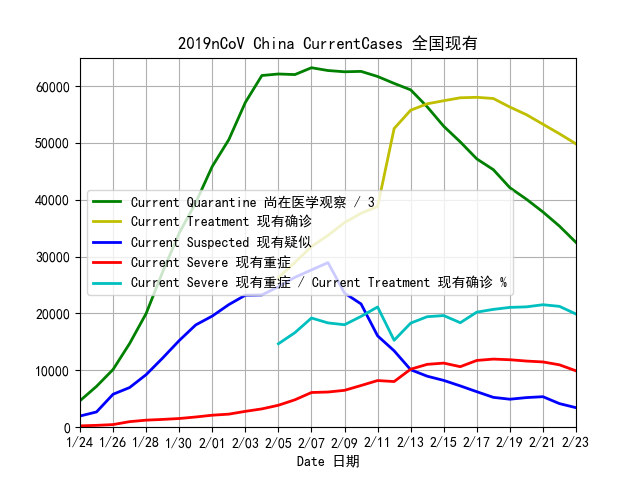
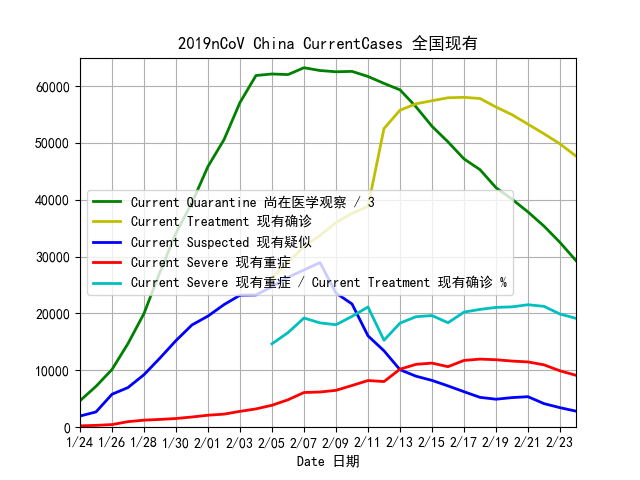
updated for Feb 24 data

diff --git a/plotCharts.py b/plotCharts.py
@@ -10,67 +10,112 @@ mpl.rcParams['axes.unicode_minus']=False # in case minus sign is shown as box
 
 dfData = pd.read_csv('data.csv')
 dfChina = dfData[dfData['Region']=='China']
+dfChina0205 = dfChina[dfChina['Date']>='2/05']
 dfHB    = dfData[dfData['Region']=='HB']
 dfChinaHB = dfChina.merge(dfHB, on=['Date'], how='inner')
 dfChinaHBx = dfChinaHB[dfChinaHB['Date']>='2/01']
+dfChinaHB0212 = dfChinaHB[dfChinaHB['Date']>='2/12']
+dfBeijing = dfData[dfData['Region']=='Beijing']
+dfFT = dfData[dfData['Region']=='FT']
 
 nChina = len(dfChina)
 
 #Confirmed
 plt.figure(1)
 confirmed, = plt.plot(dfChina['Date'], dfChina['Confirmed6'], '-', linewidth=2)
-currentSevere, = plt.plot(dfChina['Date'], dfChina['CurrentSevere7'], '-', linewidth=2)
-p, = plt.plot(dfChina['Date'], 10000*dfChina['CurrentSevere7']/dfChina['Confirmed6'], '-', linewidth=2)
+currentTreatment, = plt.plot(dfChina0205['Date'], dfChina0205['CurrentTreatment15'], '-', linewidth=2, c='y')
+currentSevere, = plt.plot(dfChina['Date'], dfChina['CurrentSevere7'], '-', linewidth=2, c='r')
+psc, = plt.plot(dfChina['Date'], 100000*dfChina['CurrentSevere7']/dfChina['Confirmed6'], '-', linewidth=2)
+pst, = plt.plot(dfChina0205['Date'], 100000*dfChina0205['CurrentSevere7']/dfChina0205['CurrentTreatment15'], '-', linewidth=2)
 plt.axis((dfChina['Date'][0], dfChina['Date'][nChina-1], 0, dfChina['Confirmed6'][nChina-1]+1000))
-plt.xticks(dfChina['Date'], dfChina['Date'])
+plt.xticks(dfChina['Date'][::2], dfChina['Date'][::2])
 plt.xlabel('Date 日期')
 plt.title('2019nCoV China Confirmed/CurrentSevere 全国 确诊/现有重症')
 plt.grid(True)
-plt.legend([confirmed, currentSevere, p], [u'Confirmed 确诊', u'Current Severe 现有重症', u"Current Severe 现有重症/Confirmed 确诊 %"])
+plt.legend([confirmed, currentTreatment, currentSevere, psc, pst], 
+           [u'Confirmed 确诊', u'Current Treatment 现有确诊', u'Current Severe 现有重症', u"Current Severe 现有重症/Confirmed 确诊 %", u"Current Severe 现有重症/Current Treatment 现有确诊 %"])
 plt.savefig('CurrentSevere.png')
 
 #Suspected
 plt.figure(2)
-currentQuarantine, = plt.plot(dfChina['Date'], dfChina['CurrentQuarantine14'], '-', linewidth=2, c='g')
+currentQuarantine, = plt.plot(dfChina['Date'], dfChina['CurrentQuarantine14']//6, '-', linewidth=2, c='g')
 currentSuspected, = plt.plot(dfChina['Date'], dfChina['CurrentSuspected11'], '-', linewidth=2, c='m')
 newSuspected, = plt.plot(dfChina['Date'], dfChina['NewSuspected5'], '-', linewidth=2, c='r')
-plt.axis((dfChina['Date'][0], dfChina['Date'][nChina-1], 0, dfChina['CurrentQuarantine14'][nChina-1]+5000))
-plt.xticks(dfChina['Date'], dfChina['Date'])
+plt.axis((dfChina['Date'][0], dfChina['Date'][nChina-1], 0, 33000))
+plt.xticks(dfChina['Date'][::2], dfChina['Date'][::2])
 plt.xlabel('Date 日期')
-plt.title('2019nCoV China Suspected 全国 疑似')
+plt.title('2019nCoV China Suspected 全国疑似')
 plt.grid(True)
-plt.legend([currentQuarantine, currentSuspected, newSuspected], [u'Current Quarantine 正在接受医学观察', u'Current Suspected 现有疑似', u'New Suspected 新增疑似'])
+plt.legend([currentQuarantine, currentSuspected, newSuspected], [u'Current Quarantine 正在接受医学观察 / 6', u'Current Suspected 现有疑似', u'New Suspected 新增疑似'])
 plt.savefig('Suspected.png')
 
 #NewCases
 plt.figure(3)
-newConfirmed, = plt.plot(dfChina['Date'], dfChina['NewConfirmed1'], '-', linewidth=2, c='y')
+newWeakConfirmed, = plt.plot(dfChina['Date'], dfChina['NewWeakConfirmed16']/2, '--', linewidth=2, c='y')
+newConfirmed, = plt.plot(dfChina['Date'], dfChina['NewConfirmed1']-dfChina['NewWeakConfirmed16'], '-', linewidth=2, c='y')
 newSevere, = plt.plot(dfChina['Date'], dfChina['NewSevere2'], '-', linewidth=2, c='r')
 newDeaths, = plt.plot(dfChina['Date'], dfChina['NewDeaths3'], '-', linewidth=2, c='black')
 newDischarged, = plt.plot(dfChina['Date'], dfChina['NewDischarged4'], '-', linewidth=2, c='g')
 newSuspected, = plt.plot(dfChina['Date'], dfChina['NewSuspected5'], '-', linewidth=2, c='b')
-plt.axis((dfChina['Date'][0], dfChina['Date'][nChina-1], 0, 5500))
-plt.xticks(dfChina['Date'], dfChina['Date'])
+plt.axis((dfChina['Date'][0], dfChina['Date'][nChina-1], -1100, 6700))
+plt.xticks(dfChina['Date'][::2], dfChina['Date'][::2])
 plt.xlabel('Date 日期')
-plt.title('2019nCoV China NewCases 全国 新增')
+plt.title('2019nCoV China NewCases 全国新增')
 plt.grid(True)
-plt.legend([newSuspected, newConfirmed, newSevere, newDischarged, newDeaths], [u'New Suspected 新增疑似', u'New Confirmed 新增确诊', u'New Severe 新增重症', u'New Discharged 新增治愈', u'New Deaths 新增死亡'])
+plt.legend([newWeakConfirmed, newSuspected, newConfirmed, newSevere, newDischarged, newDeaths], 
+           [u'New Weak Confirmed 新增临床诊断 / 2', u'New Suspected 新增疑似', u'New Confirmed 新增确诊', u'New Severe 新增重症', u'New Discharged 新增治愈', u'New Deaths 新增死亡'])
 plt.savefig('NewCases.png')
 
-#HB vs Rest
+#CurrentCases
 plt.figure(4)
-hbNewConfirmed, = plt.plot(dfChinaHB['Date'], dfChinaHB['NewConfirmed1_y'], '--', linewidth=2, c='b')
-restNewConfirmed, = plt.plot(dfChinaHB['Date'], dfChinaHB['NewConfirmed1_x']-dfChinaHB['NewConfirmed1_y'], '-', linewidth=2, c='b')
-hbNewSuspected, = plt.plot(dfChinaHBx['Date'], dfChinaHBx['NewSuspected5_y'], '--', linewidth=2, c='g')
-restNewSuspected, = plt.plot(dfChinaHBx['Date'], dfChinaHBx['NewSuspected5_x']-dfChinaHBx['NewSuspected5_y'], '-', linewidth=2, c='g')
+currentQuarantine, = plt.plot(dfChina['Date'], dfChina['CurrentQuarantine14']//3, '-', linewidth=2, c='g')
+currentSuspected, = plt.plot(dfChina['Date'], dfChina['CurrentSuspected11'], '-', linewidth=2, c='b')
+currentTreatment, = plt.plot(dfChina0205['Date'], dfChina0205['CurrentTreatment15'], '-', linewidth=2, c='y')
+currentSevere, = plt.plot(dfChina['Date'], dfChina['CurrentSevere7'], '-', linewidth=2, c='r')
+currentSevereRatio, = plt.plot(dfChina0205['Date'], 100000*dfChina0205['CurrentSevere7']//dfChina0205['CurrentTreatment15'], '-', linewidth=2, c='c')
+plt.axis((dfChina['Date'][0], dfChina['Date'][nChina-1], 0, 65000))
+plt.xticks(dfChina['Date'][::2], dfChina['Date'][::2])
+plt.xlabel('Date 日期')
+plt.title('2019nCoV China CurrentCases 全国现有')
+plt.grid(True)
+plt.legend([currentQuarantine, currentTreatment, currentSuspected, currentSevere, currentSevereRatio], 
+           [u'Current Quarantine 尚在医学观察 / 3', u'Current Treatment 现有确诊', u'Current Suspected 现有疑似', u'Current Severe 现有重症', u'Current Severe 现有重症 / Current Treatment 现有确诊 %'])
+plt.savefig('CurrentCases.png')
+
+#HB vs Rest
+plt.figure(5)
+hbNewConfirmed, = plt.plot(dfChinaHB['Date'], dfChinaHB['NewConfirmed1_y']-dfChinaHB['NewWeakConfirmed16_y'], '--', linewidth=2, c='y')
+restNewConfirmed, = plt.plot(dfChinaHB['Date'], dfChinaHB['NewConfirmed1_x']-dfChinaHB['NewConfirmed1_y'], '-', linewidth=2, c='y')
+hbNewSuspected, = plt.plot(dfChinaHBx['Date'], dfChinaHBx['NewSuspected5_y'], '--', linewidth=2, c='b')
+restNewSuspected, = plt.plot(dfChinaHBx['Date'], dfChinaHBx['NewSuspected5_x']-dfChinaHBx['NewSuspected5_y'], '-', linewidth=2, c='b')
 hbNewSevere, = plt.plot(dfChinaHBx['Date'], dfChinaHBx['NewSevere2_y'], '--', linewidth=2, c='r')
 restNewSevere, = plt.plot(dfChinaHBx['Date'], dfChinaHBx['NewSevere2_x']-dfChinaHBx['NewSevere2_y'], '-', linewidth=2, c='r')
-plt.axis(("2/01", dfChina['Date'][nChina-1], 0, 5100))
-plt.xticks(dfChinaHB['Date'], dfChinaHB['Date'])
+hbNewDischarged, = plt.plot(dfChinaHB['Date'], dfChinaHB['NewDischarged4_y'], '--', linewidth=2, c='g')
+restNewDischarged, = plt.plot(dfChinaHB['Date'], dfChinaHB['NewDischarged4_x']-dfChinaHB['NewDischarged4_y'], '-', linewidth=2, c='g')
+plt.axis(("2/01", dfChina['Date'][nChina-1], -1000, 5000))
+plt.xticks(dfChinaHB['Date'][::2], dfChinaHB['Date'][::2])
 plt.xlabel('Date 日期')
-plt.title('2019nCoV HuBei NewCases 湖北省新增确诊')
+plt.title('2019nCoV HuBei NewCases 湖北省新增')
 plt.grid(True)
-plt.legend([hbNewSuspected, restNewSuspected, hbNewConfirmed, restNewConfirmed, hbNewSevere, restNewSevere], [u'HuBei New Suspected 湖北省新增疑似', u'Rest New Suspected 其他各省新增疑似', u'HuBei New Confirmed 湖北省新增确诊', u'Rest New Confirmed 其他各省新增确诊', u'HuBei New Severe 湖北省新增重症', u'Rest New Severe 其他各省新增重症'])
+plt.legend([hbNewSuspected, restNewSuspected, hbNewConfirmed, restNewConfirmed, hbNewSevere, restNewSevere, hbNewDischarged, restNewDischarged], 
+           [u'HuBei New Suspected 湖北省新增疑似', u'Rest New Suspected 其他各省新增疑似', u'HuBei New Confirmed 湖北省新增确诊', u'Rest New Confirmed 其他各省新增确诊', u'HuBei New Severe 湖北省新增重症', u'Rest New Severe 其他各省新增重症', u'HuBei New Discharged 湖北省新增治愈', u'Rest New Discharged 其他各省新增治愈'])
 plt.savefig('HuBeiNewCases.png')
+
+#Current HB vs Rest
+plt.figure(6)
+hbCurrentSuspected, = plt.plot(dfChinaHB0212['Date'], dfChinaHB0212['CurrentSuspected11_y'], '--', linewidth=2, c='b')
+restCurrentSuspected, = plt.plot(dfChinaHB0212['Date'], dfChinaHB0212['CurrentSuspected11_x']-dfChinaHB0212['CurrentSuspected11_y'], '-', linewidth=2, c='b')
+hbCurrentTreatment, = plt.plot(dfChinaHB0212['Date'], dfChinaHB0212['CurrentTreatment15_y'], '--', linewidth=2, c='y')
+restCurrentTreatment, = plt.plot(dfChinaHB0212['Date'], dfChinaHB0212['CurrentTreatment15_x']-dfChinaHB0212['CurrentTreatment15_y'], '-', linewidth=2, c='y')
+hbCurrentSevere, = plt.plot(dfChinaHB0212['Date'], dfChinaHB0212['CurrentSevere7_y'], '--', linewidth=2, c='r')
+restCurrentSevere, = plt.plot(dfChinaHB0212['Date'], dfChinaHB0212['CurrentSevere7_x']-dfChinaHB0212['CurrentSevere7_y'], '-', linewidth=2, c='r')
+plt.axis(("2/12", dfChina['Date'][nChina-1], 0, 52000))
+plt.xticks(dfChinaHB0212['Date'], dfChinaHB0212['Date'])
+plt.xlabel('Date 日期')
+plt.title('2019nCoV HuBei CurrentCases 湖北省现有')
+plt.grid(True)
+plt.legend([hbCurrentTreatment, restCurrentTreatment, hbCurrentSuspected, restCurrentSuspected, hbCurrentSevere, restCurrentSevere], 
+           [u'HuBei Current Confirmed 湖北省现有确诊', u'Rest Current Confirmed 其他各省现有确诊', u'HuBei Current Suspected 湖北省现有疑似', u'Rest Current Suspected 其他各省现有疑似', u'HuBei Current Severe 湖北省现有重症', u'Rest Current Severe 其他各省现有重症'])
+plt.savefig('HuBeiCurrentCases.png')
 
 #plt.show()
